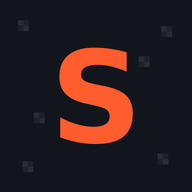
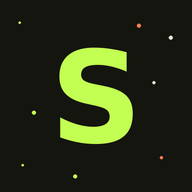
Align Shaker's visual identity with Zest/Pulp
Terrazzo speckled background, lime/ink palette, Big Shoulders Display +
Work Sans + IBM Plex Mono, and matching app icons.

Claude-Session: https://claude.ai/code/session_01QQqZCEfxY85mXRC9TFHmGG

diff --git a/index.html b/index.html
@@ -10,13 +10,13 @@
 <link rel="shortcut icon" href="/favicon.ico">
 <link rel="apple-touch-icon" sizes="180x180" href="/apple-touch-icon.png">
 <link rel="manifest" href="/manifest.json">
-<meta name="theme-color" content="#e34c1f">
+<meta name="theme-color" content="#C3FF52">
 <meta name="apple-mobile-web-app-capable" content="yes">
 <meta name="apple-mobile-web-app-status-bar-style" content="black-translucent">
 <meta name="apple-mobile-web-app-title" content="Shaker">
 <link rel="preconnect" href="https://fonts.googleapis.com">
 <link rel="preconnect" href="https://fonts.gstatic.com" crossorigin>
-<link href="https://fonts.googleapis.com/css2?family=Big+Shoulders+Display:wght@700;900&family=Public+Sans:wght@400;500;600;700&family=JetBrains+Mono:wght@500;700&display=swap" rel="stylesheet">
+<link href="https://fonts.googleapis.com/css2?family=Big+Shoulders+Display:wght@600;800&family=Work+Sans:wght@400;500;600;700&family=IBM+Plex+Mono:wght@500;600&display=swap" rel="stylesheet">
 <style>
   html, body{margin:0; padding:0; overflow-x:clip;}
   html{
@@ -27,66 +27,96 @@
   }
   *{-webkit-tap-highlight-color:transparent;}
   :root{
-    --bg:#f2f4f6;
-    --surface:#ffffff;
-    --surface-2:#e9edf1;
-    --ink:#12161c;
-    --ink-muted:#5b6572;
-    --line:#dde2e7;
-    --accent:#e34c1f;
-    --accent-ink:#fff8f4;
-    --squat:#a5711d;
-    --hinge:#6f49bd;
-    --push:#e34c1f;
-    --pull:#1c6fc2;
-    --core:#1c8f61;
-    --danger:#c0392b;
+    --bg:#F3F0E4;
+    --fleck-1:#c9ff5e; --fleck-2:#14150f; --fleck-3:#ff7a52; --fleck-4:#e7e2cf;
+    --surface:#fffdf6;
+    --surface-2:#eae5d3;
+    --ink:#14150f;
+    --ink-muted:#6f7260;
+    --ink-muted-2:#9a9c86;
+    --line:#ddd7c1;
+    --lime:#c3ff52;
+    --lime-deep:#7fae1c;
+    --coral:#ff6b45;
+    --violet:#8a63d2;
+    --accent:var(--lime-deep);
+    --accent-ink:var(--ink);
+    --squat:#c98a1f;
+    --hinge:var(--violet);
+    --push:var(--lime-deep);
+    --pull:var(--coral);
+    --core:#4f9c3a;
+    --danger:#d1483a;
     --radius-s:8px;
     --radius-m:14px;
     --radius-l:24px;
     --font-display:'Big Shoulders Display', system-ui, sans-serif;
-    --font-body:'Public Sans', system-ui, -apple-system, sans-serif;
-    --font-mono:'JetBrains Mono', 'SFMono-Regular', Menlo, monospace;
+    --font-body:'Work Sans', system-ui, -apple-system, sans-serif;
+    --font-mono:'IBM Plex Mono', 'SFMono-Regular', Menlo, monospace;
     color-scheme: light;
   }
   @media (prefers-color-scheme: dark){
     :root:not([data-theme="light"]){
-      --bg:#12161c;
-      --surface:#1b212a;
-      --surface-2:#242b35;
-      --ink:#eef1f5;
-      --ink-muted:#94a0ad;
-      --line:#2a323d;
-      --accent:#ff5d2e;
-      --accent-ink:#1c0900;
-      --squat:#e0a53f;
-      --hinge:#a486ea;
-      --push:#ff5d2e;
-      --pull:#4fa8ff;
-      --core:#3fd196;
+      --bg:#121309;
+      --fleck-1:#4f6b12; --fleck-2:#c3ff52; --fleck-3:#7a2c1a; --fleck-4:#1c1d12;
+      --surface:#1b1c13;
+      --surface-2:#25261a;
+      --ink:#F3F0E4;
+      --ink-muted:#a9ab93;
+      --ink-muted-2:#7d7f6a;
+      --line:#34351f;
+      --lime:#c3ff52;
+      --lime-deep:#a4e02f;
+      --coral:#ff8563;
+      --violet:#a486ea;
+      --accent:var(--lime-deep);
+      --accent-ink:var(--ink);
+      --squat:#e2b04a;
+      --hinge:var(--violet);
+      --push:var(--lime-deep);
+      --pull:var(--coral);
+      --core:#7ecf62;
+      --danger:#ef6a5c;
       color-scheme: dark;
     }
   }
   :root[data-theme="dark"]{
-    --bg:#12161c;
-    --surface:#1b212a;
-    --surface-2:#242b35;
-    --ink:#eef1f5;
-    --ink-muted:#94a0ad;
-    --line:#2a323d;
-    --accent:#ff5d2e;
-    --accent-ink:#1c0900;
-    --squat:#e0a53f;
-    --hinge:#a486ea;
-    --push:#ff5d2e;
-    --pull:#4fa8ff;
-    --core:#3fd196;
+    --bg:#121309;
+    --fleck-1:#4f6b12; --fleck-2:#c3ff52; --fleck-3:#7a2c1a; --fleck-4:#1c1d12;
+    --surface:#1b1c13;
+    --surface-2:#25261a;
+    --ink:#F3F0E4;
+    --ink-muted:#a9ab93;
+    --ink-muted-2:#7d7f6a;
+    --line:#34351f;
+    --lime:#c3ff52;
+    --lime-deep:#a4e02f;
+    --coral:#ff8563;
+    --violet:#a486ea;
+    --accent:var(--lime-deep);
+    --accent-ink:var(--ink);
+    --squat:#e2b04a;
+    --hinge:var(--violet);
+    --push:var(--lime-deep);
+    --pull:var(--coral);
+    --core:#7ecf62;
+    --danger:#ef6a5c;
     color-scheme: dark;
   }
 
   *{box-sizing:border-box;}
   body{
-    background:var(--bg);
+    background:
+      radial-gradient(circle at 12% 22%, var(--fleck-1) 0 3px, transparent 3px),
+      radial-gradient(circle at 78% 8%, var(--fleck-2) 0 2px, transparent 2px),
+      radial-gradient(circle at 44% 62%, var(--fleck-3) 0 2.5px, transparent 2.5px),
+      radial-gradient(circle at 88% 70%, var(--fleck-4) 0 3px, transparent 3px),
+      radial-gradient(circle at 25% 85%, var(--fleck-2) 0 2px, transparent 2px),
+      radial-gradient(circle at 60% 35%, var(--fleck-1) 0 1.8px, transparent 1.8px),
+      radial-gradient(circle at 6% 60%, var(--fleck-3) 0 1.6px, transparent 1.6px),
+      radial-gradient(circle at 95% 40%, var(--fleck-1) 0 2px, transparent 2px);
+    background-size: 180px 180px;
+    background-color: var(--bg);
     color:var(--ink);
     font-family:var(--font-body);
     padding-inline:16px;
@@ -103,6 +133,8 @@
   }
   h1,h2,h3{
     font-family:var(--font-display);
+    text-transform:uppercase;
+    letter-spacing:.01em;
     text-wrap:balance;
     margin:0;
   }
@@ -126,10 +158,10 @@
   }
   .mark span{display:block;}
   .mark span:nth-child(1),.mark span:nth-child(4){background:var(--ink);}
-  .mark span:nth-child(2),.mark span:nth-child(3){background:var(--accent);}
+  .mark span:nth-child(2),.mark span:nth-child(3){background:var(--lime);}
   .app-header h1{
     font-size:34px;
-    font-weight:900;
+    font-weight:800;
     line-height:1;
     letter-spacing:0.5px;
   }
@@ -194,13 +226,13 @@
   }
   .chip .box svg{width:10px;height:10px;opacity:0;transition:opacity .1s ease;}
   .chip.active{
-    background:color-mix(in srgb, var(--accent) 14%, var(--surface));
-    border-color:var(--accent);
-    color:var(--accent);
+    background:var(--lime);
+    border-color:var(--lime-deep);
+    color:var(--ink);
   }
-  .chip.active .box{background:var(--accent);border-color:var(--accent);}
+  .chip.active .box{background:var(--ink);border-color:var(--ink);}
   .chip.active .box svg{opacity:1;}
-  .chip.active .box svg path{stroke:var(--accent-ink);}
+  .chip.active .box svg path{stroke:var(--lime);}
 
   /* zone segmented */
   .segmented{
@@ -249,7 +281,7 @@
   .duration-readout{
     font-family:var(--font-display);
     font-size:30px;
-    font-weight:900;
+    font-weight:800;
     font-variant-numeric:tabular-nums;
     min-width:88px;
     text-align:center;
@@ -282,21 +314,21 @@
     aspect-ratio:1;
     border-radius:50%;
     border:none;
-    background:var(--accent);
-    color:var(--accent-ink);
+    background:var(--lime);
+    color:var(--ink);
     font-family:var(--font-display);
     font-size:15px;
     font-weight:400;
     cursor:pointer;
     display:grid;
     place-items:center;
-    box-shadow:0 10px 30px -10px color-mix(in srgb, var(--accent) 70%, transparent);
+    box-shadow:0 10px 30px -10px color-mix(in srgb, var(--lime-deep) 60%, transparent);
     transition:transform .12s ease;
   }
   #checkBtn:active{transform:scale(0.96);}
   #checkBtn .big{
     font-size:44px;
-    font-weight:900;
+    font-weight:800;
     letter-spacing:1px;
     display:block;
   }
@@ -387,7 +419,7 @@
   .idx{
     font-family:var(--font-display);
     font-size:20px;
-    font-weight:900;
+    font-weight:800;
     color:var(--ink-muted);
     width:22px;
     flex:none;
